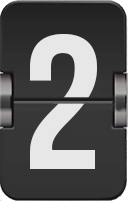
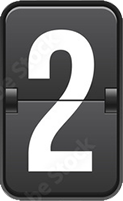
Улучшил цифры + прозрачный фон; Сделал профессиональные цифры; Exe-шник; Уточнил позиционирование; enjxybkДобился отображения переключения секунд; Добился прозрачности фона; Более-менее приличное отображение часов. Надо доработать кнопку на отображение секунд + разобраться с плавным флипом

diff --git a/flipper.py b/flipper.py
@@ -30,10 +30,13 @@ class FlipClockWithImages:
         # Устанавливаем прозрачность окна
         self.root.attributes("-topmost", False)  # Чтобы окно всегда было поверх других
         self.root.attributes("-alpha", 1.0)  # Прозрачность (при необходимости)
+        self.root.attributes("-transparentcolor", "black")
 
         # Основной фрейм для организации элементов
         self.main_frame = tk.Frame(self.root, bg="black")
         self.main_frame.place(relwidth=1, relheight=1)  # Используем place для точного позиционирования
+        # self.main_frame.place(width=200, height=100)  # Фиксированные размеры
+        # self.main_frame.place(relwidth=0.9, relheight=0.5)  # Половина размеров родительского контейнера
 
         # Изначальные размеры канвы
         # canvas_width = 622
@@ -49,7 +52,7 @@ class FlipClockWithImages:
         # Добавляем чекбокс под холстом
         self.checkbox_frame = tk.Frame(self.main_frame, bg="black")  # Фрейм для чекбокса
         # self.checkbox_frame.pack(fill="x")
-        self.checkbox_frame.place(x=585, y=182)  # Позиционируем ниже холста
+        self.checkbox_frame.place(x=585, y=182)  # Позиционируем чекбокс
 
         self.seconds_checkbox = tk.Checkbutton(
             self.checkbox_frame,
@@ -65,7 +68,8 @@ class FlipClockWithImages:
         # Загружаем картинки для цифр от 0 до 9
         self.digits = []
         for i in range(10):  # 10 картинок для цифр от 0 до 9
-            filename = f"images/{i}.png"
+            # filename = f"images/{i}.png"
+            filename = resource_path(f"images/{i}.png")
             if os.path.exists(filename):
                 self.digits.append(PhotoImage(file=filename))
             else:
